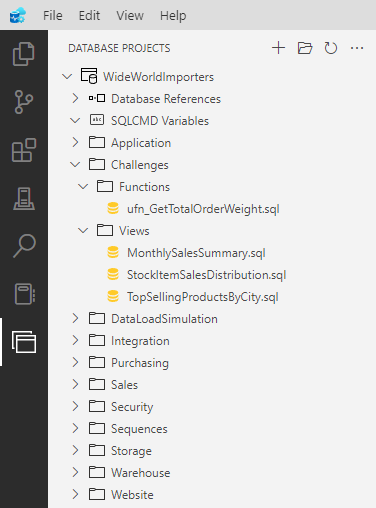
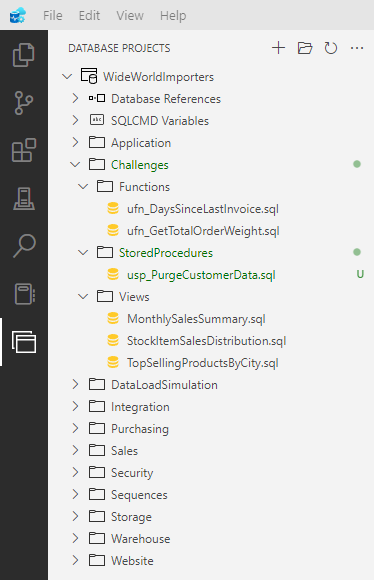
Added challenge #6

diff --git a/README.md b/README.md
@@ -8,10 +8,16 @@ A SQL project based on the [WideWorldImporters](https://learn.microsoft.com/en-u
 - [Challenges.TopSellingProductsByCity](https://github.com/JustinFrizzell/wide-world-importers-sql-project/blob/main/WideWorldImporters/Challenges/Views/TopSellingProductsByCity.sql) - A view of the top 5 selling products split for each city
 - [Challenges.StockItemSalesDistribution](https://github.com/JustinFrizzell/wide-world-importers-sql-project/blob/main/WideWorldImporters/Challenges/Views/StockItemSalesDistribution.sql) - A view showing the cumulative distribution of revenue by product
 - [Challenges.ufn_GetTotalOrderWeight](https://github.com/JustinFrizzell/wide-world-importers-sql-project/blob/main/WideWorldImporters/Challenges/Functions/ufn_GetTotalOrderWeight.sql) - A scalar function returning the total weight of a given OrderID
+- [Challenges.ufn_DaysSinceLastInvoice](https://github.com/JustinFrizzell/wide-world-importers-sql-project/blob/main/WideWorldImporters/Challenges/Functions/ufn_DaysSinceLastInvoice.sql) - A tabular function returning the date of the previous invoice, current invoice and the number of days since the last invoice for an InvoiceID
+- [Challenges.usp_PurgeCustomerData](https://github.com/JustinFrizzell/wide-world-importers-sql-project/blob/main/WideWorldImporters/Challenges/StoredProcedures/usp_PurgeCustomerData.sql) - A stored procedure to remoove customer data from the database after a GDPR request
 
 The project has been built into a `.dacpac` file for easy deployment using either SQL Server Data Tools (SSDT) or Azure Data Studio (see Installation).
 
 CI/CD is achieved using Azure Pipelines to validate the build process. SQLFluff is used to ensure consistency across code.
+
+Project structure:
+
+![Screenshot showing structure](https://raw.githubusercontent.com/JustinFrizzell/wide-world-importers-sql-project/main/project_structure.png)
 
 # Installation
 
@@ -28,3 +34,5 @@ SQLFluff is a SQL linter and formatter, to install follow [this guide](https://d
 This repository builds into a Data-Tier Application Package (`.dacpac`), which is a single file containing the full database schema. This can be used to deploy the database to various environments using SQL Server Data Tools in Visual Studio or Azure Data Studio.
 
 To deploy, download the latest `.dacpac` from [Releases](https://github.com/JustinFrizzell/wide-world-importers-sql-project/releases) and follow [this guide](https://www.sqlservercentral.com/articles/sql-server-dacpac-in-azure-data-studio). This will add the Challenges schema to the WorldWideImporters database installed above.
+
+![Screenshot showing deployment](https://raw.githubusercontent.com/JustinFrizzell/wide-world-importers-sql-project/main/deployment.png)
